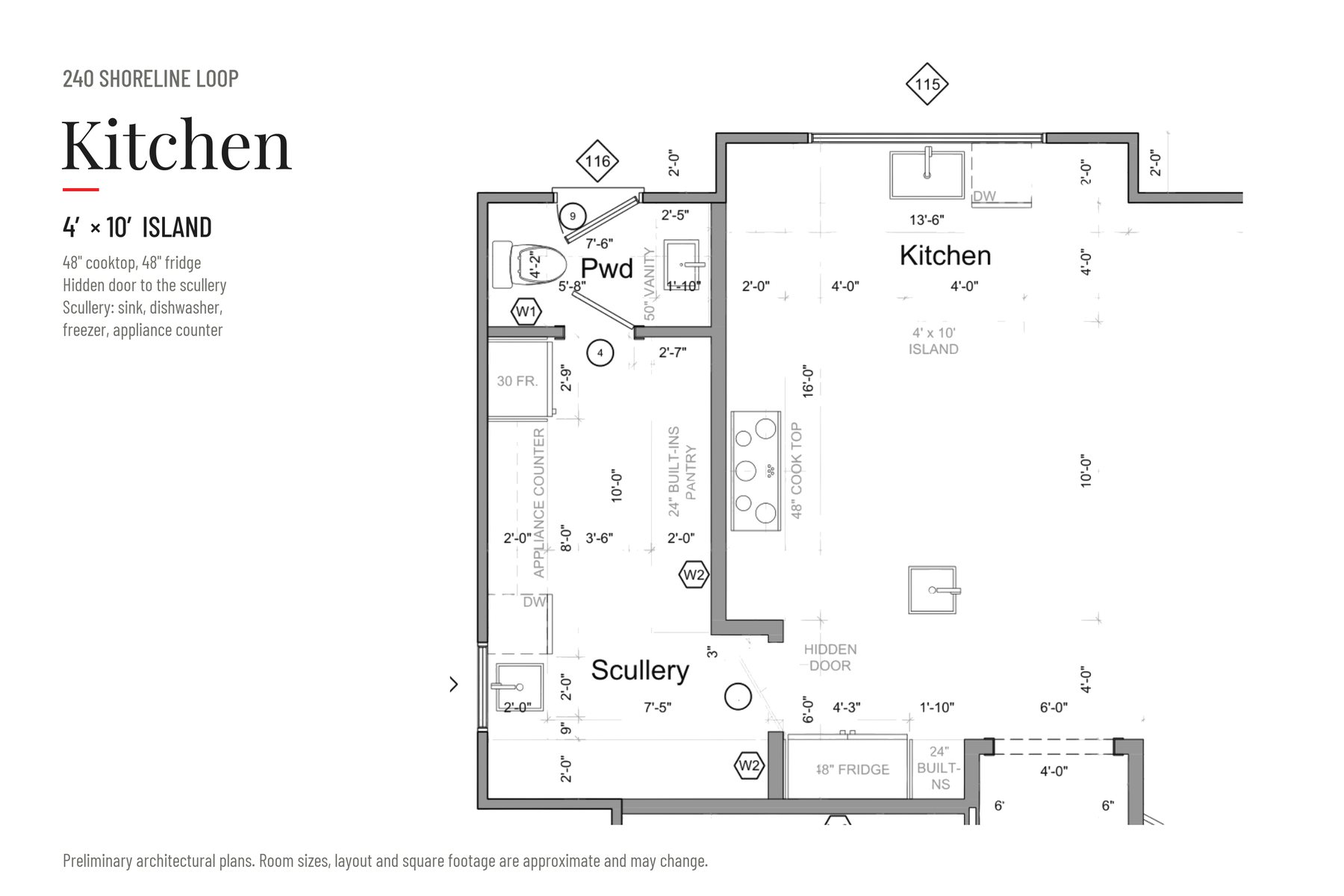
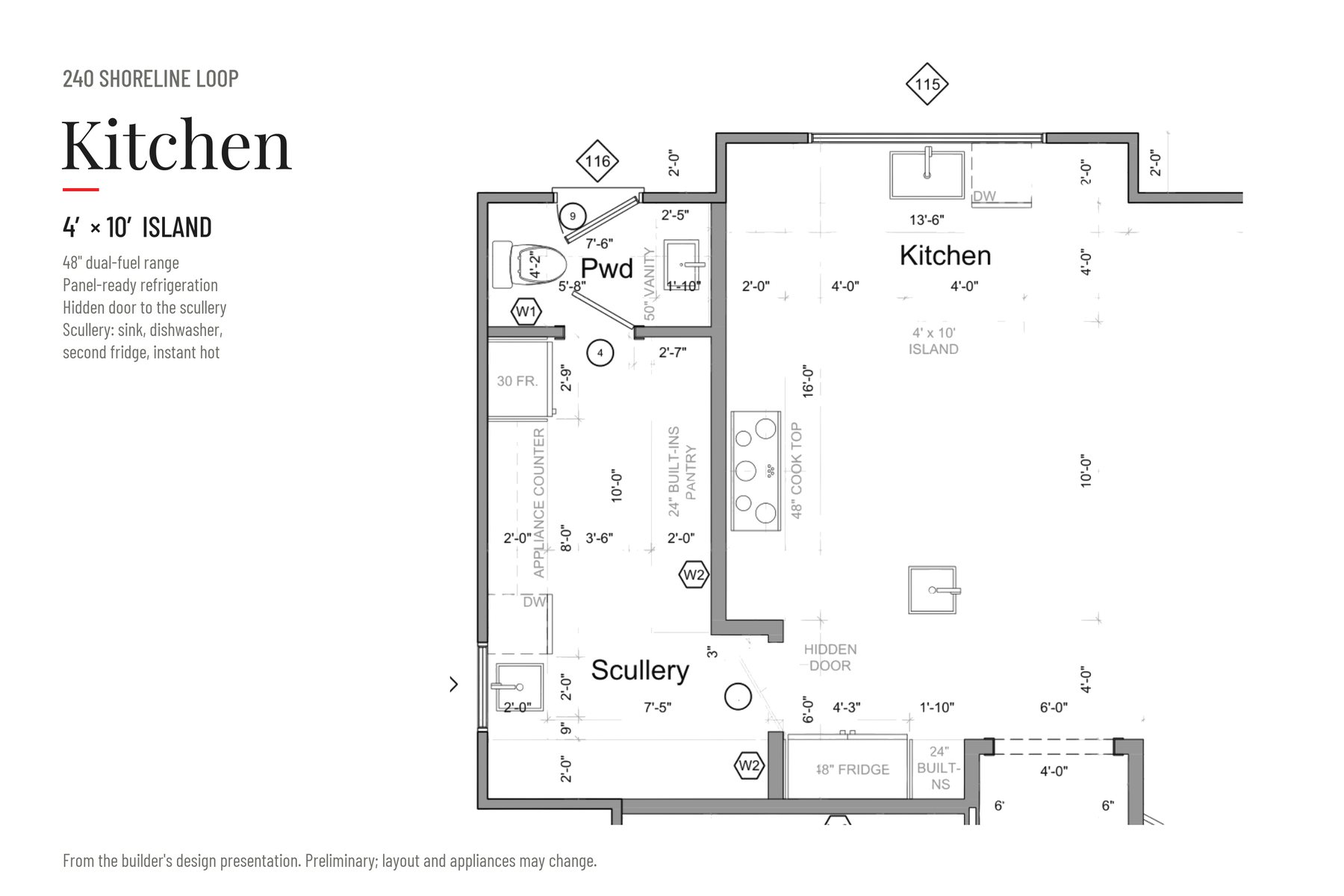
v2: Sakora renderings, 10/16 revised plans, selections, porch 26'6x16, builder + pre-sale section

Changed region(s): [[0.0311, 0.2775, 0.1867, 0.4008], [0.0622, 0.9558, 0.5289, 0.9867]]

diff --git a/index.html b/index.html
@@ -4,10 +4,10 @@
 <meta charset="utf-8">
 <meta name="viewport" content="width=device-width, initial-scale=1">
 <title>240 Shoreline Loop · Lake Norman · Mooresville</title>
-<meta name="description" content="New construction on Lake Norman by Hunt Custom Building: 240 Shoreline Loop, Mooresville NC 28117. Five bedrooms, each with its own bath, approx. 4,142 heated sq ft on 0.49 acre. Pre-sale. Presented by Ryan Palmer, The Agency Charlotte.">
+<meta name="description" content="New construction on Lake Norman by Hunt Custom Building: 240 Shoreline Loop, Mooresville NC 28117. Five bedrooms, each with its own bath, approx. 4,142 heated sq ft on 0.49 acre. Designed by Sakora, framing now. Pre-sale. Presented by Ryan Palmer, The Agency Charlotte.">
 <meta property="og:title" content="240 Shoreline Loop · Lake Norman">
 <meta property="og:description" content="New construction on Lake Norman by Hunt Custom Building. Five bedrooms, each with its own bath. Pre-sale.">
-<meta property="og:image" content="img/01-front.jpg">
+<meta property="og:image" content="https://240shoreline.com/img/r-front-dusk.jpg">
 <link rel="preconnect" href="https://fonts.googleapis.com">
 <link rel="preconnect" href="https://fonts.gstatic.com" crossorigin>
 <link href="https://fonts.googleapis.com/css2?family=Newsreader:ital,opsz,wght@0,6..72,300;0,6..72,400;1,6..72,300;1,6..72,400&family=Barlow:wght@300;400;500&family=Barlow+Condensed:wght@400;500;600&display=swap" rel="stylesheet">
@@ -274,6 +274,14 @@ footer p{max-width:1000px;margin-top:12px}
 .cimg img[style*="contain"]{aspect-ratio:4/3}
 figure.elev{background:#fff;cursor:zoom-in;max-width:1000px;margin:0 auto}
 figure.elev img{width:100%;height:auto;display:block}
+.rgrid{display:grid;grid-template-columns:repeat(3,1fr);gap:14px;margin-top:40px}
+.rgrid figure,.hgrid figure{margin:0;cursor:zoom-in;overflow:hidden;background:#ddd}
+.rgrid figure img,.hgrid figure img{width:100%;height:100%;object-fit:cover;display:block;aspect-ratio:4/3;transition:transform .8s}
+.rgrid figure:hover img,.hgrid figure:hover img{transform:scale(1.03)}
+.rgrid figure.big{grid-column:span 2;grid-row:span 2}
+.rgrid figure.big img{aspect-ratio:auto}
+.hgrid{display:grid;grid-template-columns:repeat(3,1fr);gap:14px;margin-top:60px}
+@media(max-width:800px){.rgrid{grid-template-columns:1fr 1fr}.rgrid figure.big{grid-column:span 2;grid-row:auto}.rgrid figure.big img{aspect-ratio:1/1}.hgrid{grid-template-columns:1fr 1fr 1fr;gap:8px}.rgrid figure:last-child{display:none}}
 .palette{display:grid;grid-template-columns:1fr 1fr;gap:60px;margin-top:80px;align-items:start}
 .palette .sw{display:grid;grid-template-columns:repeat(3,1fr);gap:26px 20px;margin-top:26px}
 .palette .sw i{display:block;width:100%;aspect-ratio:2/1;border-radius:999px 999px 0 0;margin-bottom:12px}
@@ -291,24 +299,26 @@ figure.elev img{width:100%;height:auto;display:block}
   <a class="lockup" href="#top" aria-label="The Agency"><img src="img/agency-mark.png" alt="The Agency"><b>240 Shoreline</b></a>
   <div class="links">
     <a href="#residence">The Residence</a>
+    <a href="#renderings">Renderings</a>
     <a href="#plans">Floor Plans</a>
     <a href="#outside">Outdoor</a>
     <a href="#design">Design</a>
+    <a href="#builder">Builder</a>
     <a class="cta" href="#contact">Private Tour</a>
   </div>
 </nav>
 
 <header class="hero" id="top">
   <div class="media">
-    <img src="img/01-front.jpg" alt="Rendering of the front of 240 Shoreline Loop: stucco and natural stone, black windows, hipped roofs and a wood entry door">
+    <img src="img/r-front-dusk-wide.jpg" alt="Rendering of the front of 240 Shoreline Loop at dusk: warm stucco and natural stone, black windows, hipped roof and a wood entry door">
   </div>
   <div class="copy">
     <h1 class="h1"><span class="reveal-line"><span>240</span></span><span class="reveal-line"><span><em>Shoreline</em></span></span></h1>
     <div class="sub">
-      <p>A new home on Lake Norman by Hunt Custom Building. Five bedrooms, each with its own bath, on just under half an acre in Imperial Point.</p>
+      <p>A new home on Lake Norman, designed by Sakora and built by Hunt Custom Building. Five bedrooms, each with its own bath, on just under half an acre in Imperial Point. Framing now.</p>
       <div class="eyebrow" style="opacity:.8;margin-bottom:8px">Available now as a pre-sale</div>
-      <div class="price">Price available upon request</div>
-      <div class="eyebrow" style="opacity:.8;margin-top:10px">Rendering · est. completion summer 2027</div>
+      <div class="price">Mooresville, NC</div>
+      <div class="eyebrow" style="opacity:.8;margin-top:10px">Artist rendering · est. completion summer 2027</div>
     </div>
   </div>
   <div class="scroll"></div>
@@ -318,7 +328,7 @@ figure.elev img{width:100%;height:auto;display:block}
   <div class="wrap">
     <div class="item fade"><div class="n">01</div><h3>The primary suite is on the lake side.</h3><p>It takes the lake end of the main level: a bedroom about 16 feet across, an ensuite with a freestanding tub and two 72-inch vanities, and a dressing room with its own island.</p></div>
     <div class="item fade"><div class="n">02</div><h3>Every bedroom upstairs has its own bath.</h3><p>Four bedrooms, four ensuites, set around a recreation room in the middle of the floor, with walk-in closets off the bedrooms.</p></div>
-    <div class="item fade"><div class="n">03</div><h3>A working scullery behind the kitchen.</h3><p>A hidden door off the kitchen leads to a second sink and dishwasher, a freezer, an appliance counter and built-in pantry storage.</p></div>
+    <div class="item fade"><div class="n">03</div><h3>A working scullery behind the kitchen.</h3><p>A hidden door off the kitchen leads to a second sink and dishwasher, a second panel-ready refrigerator, instant hot water, an appliance counter and built-in pantry storage.</p></div>
   </div>
 </section>
 
@@ -341,16 +351,15 @@ figure.elev img{width:100%;height:auto;display:block}
       <div class="rule"></div>
       <p class="lead">Stucco over a natural stone base, black window frames, low hipped roofs and a 60-inch wood entry door. The interiors take their cue from older European houses: white oak, limestone, plaster textures and brass.</p>
       <div class="why"><span class="eyebrow">Why it matters</span><p>Buying now means you see the plans, the design direction and the finishes before the walls go up, and you buy in during the selections window instead of after it closes.</p></div>
-      <figure class="cimg w" data-p="01-front"><img src="img/01-front.jpg" alt="Front rendering of 240 Shoreline Loop" loading="lazy"></figure>
+      <figure class="cimg w" data-p="r-front-day"><img src="img/r-front-day.jpg" alt="Front rendering of 240 Shoreline Loop" loading="lazy"></figure>
     </div>
     <ul class="specs fade">
       <li><span>Builder</span><div><b>Hunt Custom Building</b><em>Graham Hunt, Mooresville</em></div></li>
-      <li><span>Plan</span><div><b>The Sakora plan</b><em>Modern transitional, two stories</em></div></li>
+      <li><span>Design</span><div><b>Sakora</b><em>Modern transitional, two stories</em></div></li>
       <li><span>Exterior</span><div><b>Stucco and natural stone</b><em>Black window frames, stucco frieze, precast stone sills</em></div></li>
-      <li><span>Ceilings</span><div><b>10′ main, 9′ upper</b><em>Per the elevation drawings</em></div></li>
+      <li><span>Ceilings</span><div><b>10′ main, 9′ upper</b><em>With 8′ interior doors on both floors</em></div></li>
       <li><span>Setting</span><div><b>Lot 2, Imperial Point</b><em>0.49 acre on Lake Norman</em></div></li>
-      <li><span>Price</span><div><b>Available upon request</b><em>Contact Ryan Palmer for pricing</em></div></li>
-      <li><span>Status</span><div><b>Pre-sale, under construction</b><em>Framing begins November 2026</em></div></li>
+      <li><span>Status</span><div><b>Pre-sale, under construction</b><em>Framing and roof underway, November 2026</em></div></li>
     </ul>
   </div>
   <div class="wrap" style="margin-top:60px">
@@ -359,13 +368,35 @@ figure.elev img{width:100%;height:auto;display:block}
   </div>
 </section>
 
+<section class="pad" id="renderings" style="padding-top:0">
+  <div class="wrap">
+    <div class="head fade">
+      <div>
+        <div class="eyebrow red">The Renderings</div>
+        <h2 class="h2" style="margin-top:20px">Day into evening, <em>from the water.</em></h2>
+      </div>
+      <p class="lead" style="max-width:440px;color:var(--mute)">Sakora's renderings of the finished house, front and lake side. Tap any image to open it full size.</p>
+    </div>
+    <div class="rgrid fade">
+      <figure class="big" data-p="r-lake-dusk"><img src="img/r-lake-dusk.jpg" alt="Lake side of the house at dusk, artist rendering" loading="lazy"></figure>
+      <figure data-p="r-rear-dusk"><img src="img/r-rear-dusk.jpg" alt="Rear of the house and pool terrace at dusk, artist rendering" loading="lazy"></figure>
+      <figure data-p="r-rear-day"><img src="img/r-rear-day.jpg" alt="Rear of the house with pool concept, artist rendering" loading="lazy"></figure>
+      <figure data-p="r-lake-day"><img src="img/r-lake-day.jpg" alt="Lake side of the house by day, artist rendering" loading="lazy"></figure>
+      <figure data-p="r-garage-dusk"><img src="img/r-garage-dusk.jpg" alt="Garage side at dusk, artist rendering" loading="lazy"></figure>
+      <figure data-p="r-front-dusk"><img src="img/r-front-dusk.jpg" alt="Front of the house at dusk, artist rendering" loading="lazy"></figure>
+    </div>
+    <p style="margin-top:14px;font-size:13px;color:var(--mute)">Artist renderings. Pool, landscaping and furnishings are conceptual.</p>
+  </div>
+</section>
+
 <section class="pad stone" id="inside">
   <div class="wrap chapter flip">
     <ul class="specs fade">
       <li><span>Great room</span><div><b>About 45 feet, end to end</b><em>Kitchen, dining and living in one long room facing the porch</em></div></li>
-      <li><span>Kitchen</span><div><b>4′ × 10′ island</b><em>48-inch cooktop and 48-inch refrigerator</em></div></li>
-      <li><span>Scullery</span><div><b>Behind a hidden door</b><em>Second sink and dishwasher, freezer, appliance counter</em></div></li>
-      <li><span>To the porch</span><div><b>14-foot sliding doors</b><em>The living room opens straight onto the covered porch</em></div></li>
+      <li><span>Kitchen</span><div><b>4′ × 10′ island</b><em>Pop-up power, 48-inch dual-fuel range, panel-ready refrigeration, two dishwashers, speed oven</em></div></li>
+      <li><span>Scullery</span><div><b>Behind a hidden door</b><em>Second sink and dishwasher, second panel-ready fridge, instant hot water</em></div></li>
+      <li><span>Fireplace</span><div><b>60-inch fireplace</b><em>Textured travertine surround in the living room</em></div></li>
+      <li><span>To the porch</span><div><b>16-foot sliding doors</b><em>The living room opens straight onto the covered porch</em></div></li>
       <li><span>Mud room</span><div><b>Island and cubbies</b><em>Off the garage and the side porch</em></div></li>
       <li><span>Primary dressing</span><div><b>Built-ins and an island</b><em>Right next to the laundry</em></div></li>
     </ul>
@@ -387,11 +418,11 @@ figure.elev img{width:100%;height:auto;display:block}
         <div class="eyebrow red">The Floor Plans</div>
         <h2 class="h2" style="margin-top:20px">Know the layout <em>before it's built.</em></h2>
       </div>
-      <p class="lead" style="max-width:440px;color:var(--mute)">The primary suite, kitchen, scullery, great room, mud room, laundry and two powder rooms are on the main level. Four bedrooms with their own baths and a recreation room are upstairs.</p>
+      <p class="lead" style="max-width:440px;color:var(--mute)">The primary suite, kitchen, scullery, great room, mud room, laundry and two powder rooms are on the main level. Four bedrooms with their own baths and a recreation room open to the foyer are upstairs.</p>
     </div>
     <div class="fptabs fade"><button class="on" data-fp="0">Main level</button><button data-fp="1">Upper level</button><button data-fp="2">Kitchen</button></div>
     <figure class="fpimg fade" id="fpFig"><img id="fpImg" src="img/plan-main.jpg" alt="Main level floor plan" loading="lazy"></figure>
-    <p style="margin-top:14px;font-size:13px;color:var(--mute)">About 4,142 heated sq ft in all. Tap the plan to open it full size. These are preliminary architectural plans; room sizes, layout and square footage are approximate and may change.</p>
+    <p style="margin-top:14px;font-size:13px;color:var(--mute)">About 4,142 heated sq ft in all. Tap the plan to open it full size. From Sakora's revised plans dated October 16, 2026; the covered porch has since been enlarged to about 26′6″ × 16′. Plans are preliminary; room sizes, layout and square footage are approximate and may change.</p>
   </div>
 </section>
 
@@ -401,15 +432,16 @@ figure.elev img{width:100%;height:auto;display:block}
       <div class="eyebrow red">Outdoor Living</div>
       <h2 class="h2" style="margin-top:20px">A porch <em>built for the lake.</em></h2>
       <div class="rule"></div>
-      <p class="lead">A covered porch about 25 feet wide runs off the living room. The plan calls for an outdoor kitchen, overhead heaters and automated screens, with marble pavers underfoot.</p>
+      <p class="lead">The covered porch runs about 26½ by 16 feet off the living room, with an outdoor kitchen and grill, four overhead heaters and automated screens. The spa sits close by, and the pool bath opens straight to the outside.</p>
       <div class="why"><span class="eyebrow">Why it matters</span><p>Heaters and drop-down screens stretch porch season into spring and fall, and keep the bugs out in summer, without closing the porch in.</p></div>
-      <figure class="cimg w" data-p="board-34-outdoor"><img src="img/board-34-outdoor.jpg" alt="Outdoor living design board" loading="lazy" style="object-fit:contain;background:#ede6dc"></figure>
+      <figure class="cimg w" data-p="r-rear-dusk"><img src="img/r-rear-dusk.jpg" alt="Rear of the house and pool terrace at dusk, artist rendering" loading="lazy"></figure>
     </div>
     <ul class="specs fade">
-      <li><span>Covered porch</span><div><b>About 25′ wide</b><em>Opens off the living room through 14-foot sliders</em></div></li>
-      <li><span>Planned</span><div><b>Outdoor kitchen, heaters, screens</b><em>Per Hunt's outdoor living concept</em></div></li>
-      <li><span>Paving</span><div><b>Marble pavers</b><em>From the floor finish schedule</em></div></li>
-      <li><span>Pool</span><div><b>Being designed now</b><em>Pool and outdoor renderings to come</em></div></li>
+      <li><span>Covered porch</span><div><b>About 26′6″ × 16′</b><em>Opens off the living room through 16-foot sliders</em></div></li>
+      <li><span>Outdoor kitchen</span><div><b>Kitchen and grill</b><em>Under the covered porch</em></div></li>
+      <li><span>Comfort</span><div><b>Four 48-inch heaters, automated screens</b><em>Porch season from early spring into late fall</em></div></li>
+      <li><span>Pool bath</span><div><b>With its own exterior door</b><em>Straight in from the pool terrace</em></div></li>
+      <li><span>Pool + spa</span><div><b>Shown in the renderings</b><em>Pool design is conceptual</em></div></li>
       <li><span>Lake</span><div><b>50′ lake setback</b><em>Shown on the site plan</em></div></li>
     </ul>
   </div>
@@ -422,7 +454,7 @@ figure.elev img{width:100%;height:auto;display:block}
         <div class="eyebrow red">The Design Packet</div>
         <h2 class="h2" style="margin-top:20px">Classic, modern, <em>organic.</em></h2>
       </div>
-      <p class="lead" style="max-width:440px;color:var(--mute)">Hunt's interior design presentation, room by room: finishes, palette, lighting and the feel of each space. The photos on these boards are inspiration images, not pictures of this house.</p>
+      <p class="lead" style="max-width:440px;color:var(--mute)">Much of the house is already on the builder's selections schedule; the rest gets finished with the buyer. Below is Hunt's interior design presentation, room by room: finishes, palette, lighting and the feel of each space. The photos on these boards are inspiration images, not pictures of this house.</p>
     </div>
   </div>
   <div class="sbox">
@@ -445,13 +477,41 @@ figure.elev img{width:100%;height:auto;display:block}
       <p class="fine">Screen colors are approximate.</p>
     </div>
     <ul class="specs">
-      <li><span>Floors</span><div><b>European white oak</b><em>Kitchen, dining, living room and bedrooms</em></div></li>
-      <li><span>Primary ensuite</span><div><b>Limestone tile</b><em>With an off-white textured wall finish</em></div></li>
-      <li><span>Scullery</span><div><b>Porcelain tile</b><em>Checkerboard pattern</em></div></li>
-      <li><span>Walls</span><div><b>Beige textured finish</b><em>Throughout the main living areas</em></div></li>
-      <li><span>Lighting</span><div><b>Bronze, black iron, natural oak</b><em>Pendants, built-in sconces and lamps</em></div></li>
+      <li><span>Floors</span><div><b>7½-inch wide-plank white oak</b><em>Main living areas, bedrooms and upstairs</em></div></li>
+      <li><span>Primary bath</span><div><b>Heated floors</b><em>70-inch freestanding tub, rain shower with hand shower</em></div></li>
+      <li><span>Fixtures</span><div><b>Brushed brass, champagne bronze</b><em>Plumbing fixtures throughout</em></div></li>
+      <li><span>Lighting</span><div><b>Alabaster, rope and brass</b><em>Sconces, pendants and designer ceiling fans</em></div></li>
+      <li><span>Laundry</span><div><b>Honed marble checkerboard</b><em>Floor</em></div></li>
+      <li><span>Systems</span><div><b>Tankless water heater</b><em>Propane gas</em></div></li>
     </ul>
   </div>
+</section>
+
+<section class="pad dark" id="builder">
+  <div class="wrap chapter">
+    <div class="sticky fade hasimg">
+      <div class="eyebrow red">The Builder</div>
+      <h2 class="h2" style="margin-top:20px">Built from <em>the porch out.</em></h2>
+      <div class="rule"></div>
+      <p class="lead">Hunt Custom Building is a second-generation Mooresville builder known across Lake Norman for outdoor living: covered porches, pools and cabanas, outdoor kitchens and fireplaces. 240 Shoreline puts that craft into a whole house, with Graham Hunt on site from demolition through the final walk.</p>
+      <div class="why"><span class="eyebrow">What clients say</span><p>“They showed up when they said they would, were clean, and extremely pleasant. Would have them back in a heartbeat.” Hunt Contracting client review</p></div>
+      <figure class="cimg w" data-p="hunt-pool-dusk"><img src="img/hunt-pool-dusk.jpg" alt="A Hunt Contracting pool and outdoor living project" loading="lazy"></figure>
+    </div>
+    <ul class="specs fade">
+      <li><span>Builder</span><div><b>Hunt Custom Building LLC</b><em>Graham Hunt, Mooresville</em></div></li>
+      <li><span>Specialty</span><div><b>Pools, cabanas, outdoor kitchens</b><em>Covered porches, fireplaces, terraces</em></div></li>
+      <li><span>Serves</span><div><b>Lake Norman and Charlotte</b><em>Mooresville, Cornelius, Davidson, Huntersville, Denver</em></div></li>
+      <li><span>Pre-sale</span><div><b>10% deposit to the builder</b><em>Price, plans and current selections set out before you sign</em></div></li>
+      <li><span>Selections</span><div><b>Finish it your way</b><em>A selections window after contract, timed to construction</em></div></li>
+      <li><span>Warranty</span><div><b>Provided at contract</b><em>Terms and coverage in writing</em></div></li>
+    </ul>
+  </div>
+  <div class="wrap hgrid fade">
+    <figure data-p="hunt-porch"><img src="img/hunt-porch.jpg" alt="Hunt Contracting covered porch project" loading="lazy"></figure>
+    <figure data-p="hunt-cabana"><img src="img/hunt-cabana.jpg" alt="Hunt Contracting cabana project" loading="lazy"></figure>
+    <figure data-p="hunt-kitchen"><img src="img/hunt-kitchen.jpg" alt="Hunt Contracting outdoor kitchen project" loading="lazy"></figure>
+  </div>
+  <p class="wrap" style="margin-top:14px;font-size:13px;opacity:.6">Past Hunt Contracting projects, not this home.</p>
 </section>
 
 <section class="pad loc stone">
@@ -478,7 +538,7 @@ figure.elev img{width:100%;height:auto;display:block}
       <div class="eyebrow red">Private Tours</div>
       <h2 class="h2" style="margin-top:20px">Walk the lot <em>with the plans.</em></h2>
       <div class="rule"></div>
-      <p class="lead">See the site and the water, go through the plans and the design packet, and talk through the pre-sale process. By appointment.</p>
+      <p class="lead">Watch the framing go up, see the water, go through the plans, renderings and selections, and talk through the pre-sale. Pricing on request. By appointment.</p>
       <p style="margin-top:28px;font-family:var(--serif);font-size:28px">Ryan Palmer</p>
       <p style="color:var(--mute)">Partner, Luxury Division · The Agency Charlotte &amp; Lake Norman</p>
       <div class="btns">
@@ -493,7 +553,7 @@ figure.elev img{width:100%;height:auto;display:block}
 <footer>
   <div class="wrap">
     <a class="lockup" href="#top"><img src="img/agency-mark.png" alt="The Agency"></a>
-    <p>240 Shoreline Loop, Mooresville, NC 28117. Proposed new construction by Hunt Custom Building, offered as a pre-sale. The rendering, elevations, floor plans and design boards are illustrative and preliminary. Photos on the design boards are inspiration images and do not show this home. Final design, specifications, materials, finishes, features and pricing may change without notice. Square footage, lot size and room dimensions are approximate, taken from builder plans, and may differ from the finished home. Completion timing is an estimate. Information deemed reliable but not guaranteed; buyers should verify all details, including school assignments.</p>
+    <p>240 Shoreline Loop, Mooresville, NC 28117. Proposed new construction by Hunt Custom Building, offered as a pre-sale. The renderings, elevations, floor plans, selections and design boards are illustrative and preliminary; pool, spa, landscaping and furnishings shown in renderings are conceptual. Photos of past Hunt Contracting projects do not show this home. Photos on the design boards are inspiration images and do not show this home. Final design, specifications, materials, finishes, features and pricing may change without notice. Square footage, lot size and room dimensions are approximate, taken from builder plans, and may differ from the finished home. Completion timing is an estimate. Information deemed reliable but not guaranteed; buyers should verify all details, including school assignments.</p>
     <p>Ryan Palmer, NC Lic. 315654 · The Agency Charlotte, NC Firm Lic. C37988 · 3540 Toringdon Way, Suite 125, Charlotte, NC 28277. An independently owned and operated franchisee of The Agency Real Estate Franchising, LLC. Equal Housing Opportunity.</p>
   </div>
 </footer>
@@ -510,7 +570,7 @@ addEventListener('scroll', () => nav.classList.toggle('solid', scrollY > innerHe
 const io = new IntersectionObserver(es => es.forEach(e => { if (e.isIntersecting) { e.target.classList.add('in'); io.unobserve(e.target); } }), {threshold:.12});
 $$('.fade').forEach(el => io.observe(el));
 const SEL = [["board-11-mood", "Mood board"], ["board-12-materials", "Material board"], ["board-14-walls", "Wall finishes"], ["board-15-floors", "Floor finishes"], ["board-16-palette", "Color palette"], ["board-17-lighting", "Lighting"], ["board-19-entry", "Entry, foyer and staircase"], ["board-20-living", "Living room"], ["board-22-kitchen", "Kitchen"], ["board-23-scullery", "Scullery"], ["board-24-dining", "Dining room"], ["board-25-primary", "Primary bedroom and dressing room"], ["board-26-ensuite", "Primary ensuite"], ["board-27-powder", "Powder room"], ["board-28-mudroom", "Mudroom"], ["board-29-laundry", "Laundry"], ["board-30-poolbath", "Pool bath"], ["board-31-rec", "Upstairs recreation room"], ["board-32-bedrooms", "Secondary bedrooms"], ["board-33-baths", "Secondary baths"], ["board-34-outdoor", "Outdoor living"], ["board-35-arrival", "Exterior palette and arrival"]];
-const P = [["01-front","Front · rendering"],["elevations","Front and side elevations"],["plan-kitchen","Kitchen and scullery plan"]].concat(SEL.map(s => [s[0], s[1] + " · design board, inspiration imagery"])), PB = "img/";
+const P = [["r-front-dusk","Front at dusk · artist rendering"],["r-lake-dusk","Lake side at dusk · artist rendering"],["r-rear-dusk","Rear and pool terrace at dusk · artist rendering"],["r-rear-day","Rear with pool concept · artist rendering"],["r-lake-day","Lake side by day · artist rendering"],["r-garage-dusk","Garage side at dusk · artist rendering"],["r-front-day","Front by day · artist rendering"],["elevations","Front and side elevations"],["plan-kitchen","Kitchen and scullery plan"],["hunt-pool-dusk","Past Hunt Contracting project"],["hunt-porch","Past Hunt Contracting project"],["hunt-cabana","Past Hunt Contracting project"],["hunt-kitchen","Past Hunt Contracting project"]].concat(SEL.map(s => [s[0], s[1] + " · design board, inspiration imagery"])), PB = "img/";
 const gg = $('#ggrid');
 SEL.forEach(s => { const f = document.createElement('figure'); f.dataset.p = s[0]; f.innerHTML = `<img src="img/${s[0]}.jpg" alt="${s[1]} design board (inspiration imagery)" loading="lazy">`; gg.appendChild(f); });
 const plb = $('#plb'), pimg = $('#plbImg'), pcap = $('#plbCap'); let pi = 0;
@@ -541,7 +601,7 @@ gg.addEventListener('click', e => { if (moved > 5) { e.stopPropagation(); e.prev
 gg.addEventListener('dragstart', e => e.preventDefault());
 function edges(){ const m = gg.scrollWidth - gg.clientWidth - 2; $('.sa.sl').classList.toggle('off', gg.scrollLeft < 2); $('.sa.sr').classList.toggle('off', gg.scrollLeft > m); }
 gg.addEventListener('scroll', edges, {passive: true}); addEventListener('load', edges); edges();
-$('[data-all]').addEventListener('click', () => openList(P.slice(3), PB, 0));
+$('[data-all]').addEventListener('click', () => openList(P.slice(13), PB, 0));
 plb.querySelector('.pv').addEventListener('click', e => { e.stopPropagation(); showP(pi - 1); });
 plb.querySelector('.nx').addEventListener('click', e => { e.stopPropagation(); showP(pi + 1); });
 plb.addEventListener('click', e => { if (e.target === plb || e.target.classList.contains('x')) closeP(); });
